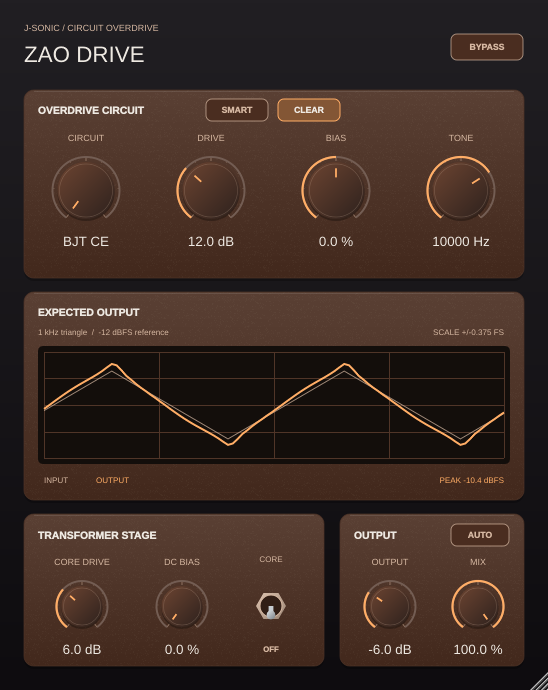
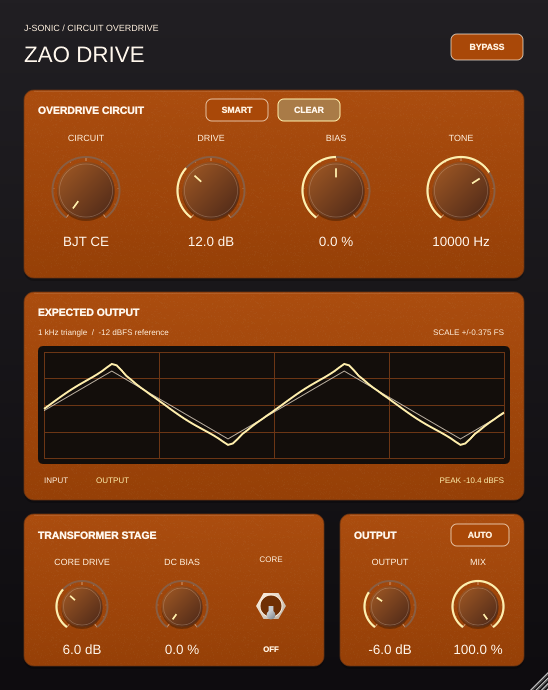
Brighten Zao orange and shift Kuo Velvet to pale blue

diff --git a/projects/KuoVelvet/Source/PluginEditor.cpp b/projects/KuoVelvet/Source/PluginEditor.cpp
@@ -4,14 +4,16 @@
 using namespace stageStyle;
 KuoVelvetEditor::KuoVelvetEditor (KuoVelvetProcessor& p) : AudioProcessorEditor (&p)
 {
-    look.accentColour = juce::Colour (0xff8de2c0);
-    look.dialTopColour = juce::Colour (0xff31564d);
-    look.dialBottomColour = juce::Colour (0xff182e2b);
-    bypass.accentColour = look.accentColour;
-    bypass.panelColour = juce::Colour (0xff23483f);
+    look.accentColour = juce::Colour (0xff22536e);
+    look.markColour = juce::Colour (0xff234962);
+    look.trackColour = juce::Colour (0xff668da3);
+    look.dialTopColour = juce::Colour (0xffd6eef7);
+    look.dialBottomColour = juce::Colour (0xffa9d0e5);
+    bypass.accentColour = juce::Colour (0xff9ddbf2);
+    bypass.panelColour = juce::Colour (0xff244b63);
     addAndMakeVisible (titleHint);
     setOpaque (true); setLookAndFeel (&look);
-    look.setColour (juce::TooltipWindow::backgroundColourId, juce::Colour (0xff23483f));
+    look.setColour (juce::TooltipWindow::backgroundColourId, juce::Colour (0xff244b63));
     look.setColour (juce::TooltipWindow::textColourId, foreground);
     look.setColour (juce::TooltipWindow::outlineColourId, grid);
     addAndMakeVisible (bypass);
@@ -31,14 +33,14 @@ KuoVelvetEditor::KuoVelvetEditor (KuoVelvetProcessor& p) : AudioProcessorEditor 
         slider.setSliderStyle (juce::Slider::RotaryHorizontalVerticalDrag);
         slider.setTextBoxStyle (juce::Slider::TextBoxBelow, false, 96, 18);
         slider.setColour (juce::Slider::textBoxOutlineColourId, juce::Colours::transparentBlack);
-        slider.setColour (juce::Slider::textBoxTextColourId, foreground);
+        slider.setColour (juce::Slider::textBoxTextColourId, juce::Colour (0xff183447));
         slider.setTextValueSuffix (units[i]); slider.setName (names[i]); slider.setTitle (names[i]);
         slider.setDoubleClickReturnValue (true, p.parameters.getParameter (ids[i])->convertFrom0to1 (
             p.parameters.getParameter (ids[i])->getDefaultValue()));
         labels[i].setText (names[i], juce::dontSendNotification);
         labels[i].setJustificationType (juce::Justification::centred);
         labels[i].setFont (juce::FontOptions (10.0f));
-        labels[i].setColour (juce::Label::textColourId, juce::Colour (0xffc4d6cb));
+        labels[i].setColour (juce::Label::textColourId, juce::Colour (0xff183447));
         addAndMakeVisible (slider); addAndMakeVisible (labels[i]);
         attachments[i] = std::make_unique<State::SliderAttachment> (p.parameters, ids[i], slider);
         editorTooltips::setHint (slider, labels[i], hints[i]);
@@ -70,14 +72,14 @@ void KuoVelvetEditor::paint (juce::Graphics& g)
     g.setGradientFill (juce::ColourGradient (background.brighter (0.035f), 0, 0,
                                             background.darker (0.13f), 0, designHeight, false));
     g.fillRect (0, 0, designWidth, designHeight);
-    g.setColour (juce::Colour (0xffc4d6cb)); g.setFont (juce::FontOptions (10.0f));
+    g.setColour (juce::Colour (0xffc8dfeb)); g.setFont (juce::FontOptions (10.0f));
     g.drawText ("J-SONIC / VELVET STEREO", 16, 12, 310, 16, juce::Justification::centredLeft);
     g.setColour (foreground); g.setFont (juce::FontOptions (25.0f));
     g.drawText ("KUO VELVET", 16, 30, 310, 36, juce::Justification::centredLeft);
-    drawPanel (g, { 16, 82, 412, 162 }, juce::Colour (0xff23483f));
-    g.setColour (foreground); g.setFont (juce::FontOptions (13.0f).withStyle ("bold"));
+    drawPanel (g, { 16, 82, 412, 162 }, juce::Colour (0xff8cb9d3));
+    g.setColour (juce::Colour (0xff183447)); g.setFont (juce::FontOptions (13.0f).withStyle ("bold"));
     g.drawText ("VELVET WIDTH", 28, 94, 380, 20, juce::Justification::centredLeft);
-    g.setColour (juce::Colour (0xffc4d6cb)); g.setFont (juce::FontOptions (9.0f));
+    g.setColour (juce::Colour (0xff183447)); g.setFont (juce::FontOptions (9.0f));
     g.drawText ("Sparse stereo texture with transient protection", 28, 116, 380, 16, juce::Justification::centredLeft);
     g.restoreState();
 }

diff --git a/projects/StagePluginStyle.cpp b/projects/StagePluginStyle.cpp
@@ -64,14 +64,14 @@ void StageLookAndFeel::drawRotarySlider (juce::Graphics& g, int x, int y, int wi
     {
         const auto a = start + (end - start) * static_cast<float> (tick) / 10.0f;
         const auto inner = radius - (tick % 5 == 0 ? 4.0f : 2.0f);
-        g.setColour (secondary.withAlpha (tick % 5 == 0 ? 0.5f : 0.25f));
+        g.setColour (markColour.withAlpha (tick % 5 == 0 ? 0.5f : 0.25f));
         g.drawLine (centre.x + std::sin (a) * inner, centre.y - std::cos (a) * inner,
                     centre.x + std::sin (a) * radius, centre.y - std::cos (a) * radius, 1.0f);
     }
     juce::Path track, active;
     track.addCentredArc (centre.x, centre.y, radius, radius, 0, start, end, true);
     active.addCentredArc (centre.x, centre.y, radius, radius, 0, start, angle, true);
-    g.setColour (grid.brighter (0.25f));
+    g.setColour (trackColour.brighter (0.25f));
     g.strokePath (track, juce::PathStrokeType (2.0f));
     g.setColour (accentColour);
     g.strokePath (active, juce::PathStrokeType (2.2f));
@@ -81,7 +81,7 @@ void StageLookAndFeel::drawRotarySlider (juce::Graphics& g, int x, int y, int wi
     g.setGradientFill (juce::ColourGradient (dialTopColour, dial.getTopLeft(),
                                             dialBottomColour, dial.getBottomRight(), false));
     g.fillEllipse (dial);
-    g.setColour (secondary.withAlpha (0.25f));
+    g.setColour (markColour.withAlpha (0.25f));
     g.drawEllipse (dial.reduced (2), 0.7f);
     g.setColour (accentColour);
     const auto inner = dial.getWidth() * 0.23f, outer = dial.getWidth() * 0.39f;
@@ -152,7 +152,7 @@ void StageLookAndFeel::drawLinearSlider (juce::Graphics& g, int x, int y, int wi
     const auto centre = static_cast<float> (x + width / 2);
     const auto top = static_cast<float> (y + 5);
     const auto bottom = static_cast<float> (y + height - 5);
-    g.setColour (grid.brighter (0.3f));
+    g.setColour (trackColour.brighter (0.3f));
     g.fillRoundedRectangle (centre - 2.0f, top, 4.0f, bottom - top, 2.0f);
     g.setColour (accentColour.withAlpha (0.72f));
     g.fillRoundedRectangle (centre - 1.0f, sliderPos, 2.0f,

diff --git a/projects/ZaoDrive/Source/PluginEditor.cpp b/projects/ZaoDrive/Source/PluginEditor.cpp
@@ -6,12 +6,12 @@
 namespace
 {
 const auto background = juce::Colour (0xff100e12);
-const auto panel = juce::Colour (0xff4a2d20);
+const auto panel = juce::Colour (0xffa94808);
 const auto inset = juce::Colour (0xff130e0b);
-const auto foreground = juce::Colour (0xffeee9e2);
-const auto secondary = juce::Colour (0xffd6b8a2);
-const auto accent = juce::Colour (0xffffad66);
-const auto grid = juce::Colour (0xff503528);
+const auto foreground = juce::Colour (0xfffff7ed);
+const auto secondary = juce::Colour (0xfffff1df);
+const auto accent = juce::Colour (0xffffefad);
+const auto grid = juce::Colour (0xff6c3615);
 
 const juce::Image& analogGrain()
 {
@@ -40,7 +40,7 @@ void drawPanel (juce::Graphics& g, juce::Rectangle<float> bounds)
 {
     g.setColour (juce::Colours::black.withAlpha (0.24f));
     g.fillRoundedRectangle (bounds.translated (0, 3), 10);
-    g.setGradientFill (juce::ColourGradient (panel.brighter (0.1f), bounds.getTopLeft(),
+    g.setGradientFill (juce::ColourGradient (panel.brighter (0.03f), bounds.getTopLeft(),
                                             panel.darker (0.12f), bounds.getBottomLeft(), false));
     g.fillRoundedRectangle (bounds, 10);
     juce::Path clip;
@@ -86,8 +86,8 @@ void ZaoLookAndFeel::drawRotarySlider (juce::Graphics& g, int x, int y, int widt
     auto dial = juce::Rectangle<float> (radius * 2 - 10, radius * 2 - 10).withCentre (centre);
     g.setColour (juce::Colours::black.withAlpha (0.3f));
     g.fillEllipse (dial.translated (0, 2));
-    g.setGradientFill (juce::ColourGradient (juce::Colour (0xff6d4532), dial.getTopLeft(),
-                                            juce::Colour (0xff2d211d), dial.getBottomRight(), false));
+    g.setGradientFill (juce::ColourGradient (juce::Colour (0xffa45b25), dial.getTopLeft(),
+                                            juce::Colour (0xff492618), dial.getBottomRight(), false));
     g.fillEllipse (dial);
     g.setColour (secondary.withAlpha (0.25f));
     g.drawEllipse (dial.reduced (2), 0.7f);

diff --git a/projects/StagePluginStyle.h b/projects/StagePluginStyle.h
@@ -11,6 +11,8 @@ class StageLookAndFeel final : public juce::LookAndFeel_V4
 {
 public:
     juce::Colour accentColour = stageStyle::amber;
+    juce::Colour markColour = stageStyle::secondary;
+    juce::Colour trackColour = stageStyle::grid;
     juce::Colour dialTopColour = juce::Colour (0xff65504a);
     juce::Colour dialBottomColour = juce::Colour (0xff30252a);
     void drawRotarySlider (juce::Graphics&, int, int, int, int, float, float, float, juce::Slider&) override;

diff --git a/docs/COLOR_PALETTE.md b/docs/COLOR_PALETTE.md
@@ -6,7 +6,8 @@ This follows [Material's color-role guidance](https://github.com/material-compon
 | Editor | Panel | Secondary text | Active knob / accent | Text contrast | Accent contrast |
 | --- | --- | --- | --- | ---: | ---: |
 | Xuan Phase | Black `#14171B` | `#AAA0A0` | Cool silver `#BFCAD4` | 7.06:1 | 10.80:1 |
-| Zao Drive | Burnt orange `#4A2D20` | `#D6B8A2` | Warm orange `#FFAD66` | 6.66:1 | 6.77:1 |
-| Kuo Stereo / Velvet | Deep seafoam `#23483F` | `#C4D6CB` | Mint `#8DE2C0` | 6.68:1 | 6.65:1 |
+| Zao Drive | Vivid orange `#A94808` | `#FFF1DF` | Pale gold `#FFEFAD` | 5.22:1 | 5.03:1 |
+| Kuo Stereo | Deep seafoam `#23483F` | `#C4D6CB` | Mint `#8DE2C0` | 6.68:1 | 6.65:1 |
+| Kuo Velvet | Faint blue `#8CB9D3` | Navy `#183447` | Deep blue `#22536E` | 6.17:1 | 3.95:1 |
 
-The knob faces use darker shades of their panel hue so the active arc and pointer remain the clearest elements. Xuan's green/red early/late meter colors and separate left/right trace colors retain their signal meaning.
+Kuo Velvet uses a light knob face and dark marks so the controls remain legible on the faint blue panel. Zao keeps a darker knob face with a pale gold active arc. Xuan's green/red early/late meter colors and separate left/right trace colors retain their signal meaning.
